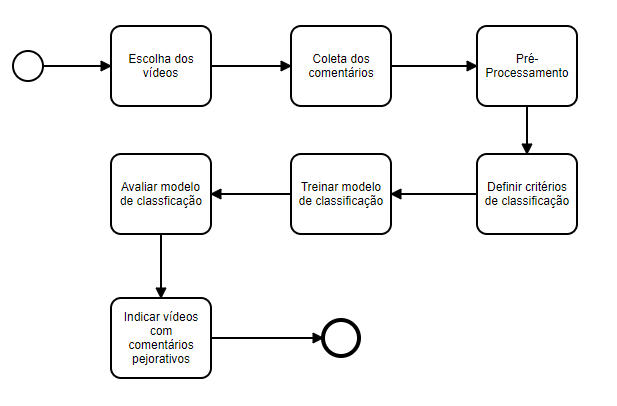
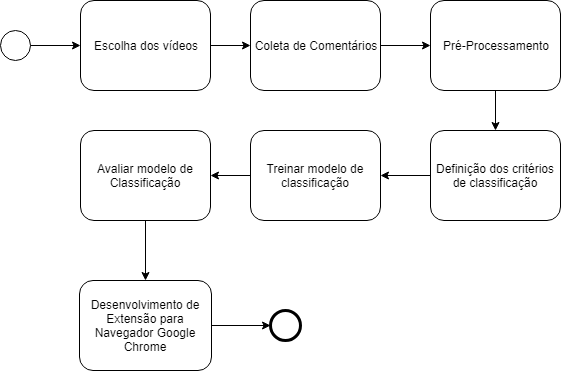
naive bayes finished

diff --git a/fundamentacao_teorica.tex b/fundamentacao_teorica.tex
@@ -89,18 +89,39 @@ Originalmente o classificador SentiStrength apenas trabalha com frases no idioma
 Segundo \citeonline{tan2009DataMining}, uma técnica de classificação é uma maneira de construir modelos de classificação a partir de um \textit{Dataset}. Exemplos de classificadores são: Árvore de decisão; Rede Neurais; SVM (Support Vector Machines); e classificadores Naïve Bayes.
 Cada uma dessas técnicas aplica um algoritmo de aprendizagem para identificar o modelo que melhor descreve um relacionamento entre o conjunto de atributos e as classes dos dados de entrada. Sendo assim o modelo gerado pelo algoritmo de aprendizagem deve ser capaz de, a partir de um conjunto de entradas, classificar corretamente registros que não eram conhecidos até então.
 
-\citeonline{zhang2004optimalitybayes} afirma que Naïve Bayes é um dos algoritmos mais eficientes para \textit{machine learning} e mineração de textos. Esse algoritmo de aprendizagem supervisionado utiliza do Teorema de Bayes, porém considerando haver independência entre as \textit{features} (característica das variáveis de entrada) do conteúdo sendo classificado.
+Naïve Bayes é um dos algoritmos mais eficientes para \textit{machine learning} e mineração de textos. Esse algoritmo de aprendizagem supervisionado utiliza do Teorema de Bayes, porém considerando haver independência entre as \textit{features} (característica das variáveis de entrada) do conteúdo sendo classificado \cite{zhang2004optimalitybayes}.
 
-O Teorema de Bayes com features dependentes pode ser definido da seguinte maneira:
+De acordo com com \citeonline{zhang2004optimalitybayes}, o Teorema de Bayes com features dependentes pode ser definido da seguinte maneira, onde a probabilidade de um evento $\epsilon$ ser da classe $c$ é:
 
-%%%Essa equação esta errada, olhar a referencia do paragrafo acima! 
 \begin{equation}
 \label{eq:bayes_classic}
-P(c|\textbf{D}) = P(c ) \frac{P(\textbf{D} |c)}{P(\textbf{D})}
+ P(c|\epsilon) = P(c ) \frac{P(\epsilon |c)}{P(\epsilon)}
 \end{equation}
 
+$\epsilon$ pertence a classe $C = +$ se somente se:
+\begin{equation}
+\label{eq:bayes_classic}
+ {f_b}(\epsilon) =  \frac{P(C = + | \epsilon)}{P(C = - | \epsilon)} \geq 1
+\end{equation}
 
+onde ${f_b}(\epsilon)$ é um classificador Bayesiano.
 
+Se assumirmos que os atributos são independentes dados os valores de classe, ou seja:
+\begin{equation}
+\label{eq:naive_bayes}
+ {p}(\epsilon|c) =  {p}({x_1, x_2, ..., x_n}|c) = \prod_{i=1}^{n} {p}(x_i|c),
+\end{equation}
+
+O classificador resultante é:
+
+\begin{equation}
+\label{eq:bayes_classic}
+ {f_nb}(\epsilon) =  \frac{P(C = +)}{P(C = -)} \prod_{i=1}^{n} \frac{P({x_i} | C = +)}{P({x_i} | C = -)}
+\end{equation}
+
+A função ${f_nb}(\epsilon)$ é chamada de classificador Naive Bayes (naive Bayesian classifier).
+
+A utização do Naïve Bayes se dara através da ferramenta scikit-learn \citeonline{scikit-learn}, onde o classificador já está previamente implementado.
 %% Old content
 \begin{comment}
 

diff --git a/metodologia.tex b/metodologia.tex
@@ -10,8 +10,8 @@ Uma ilustração da ordem de execução dos passos é descrita na Figura \ref{fi
     \item Definição dos critérios de classificação
     \item Treinamento do modelo de classificação
     \item Avaliação do modelo de classificação
-    \item Indicar vídeos com comentários pejorativos
-    %% Se der tudo certo prox fim de semana, vou colocar aqui o plugin do chrome :D
+    \item Criação de extensão para Google Chrome
+    
 \end{itemize}
 
 \begin{figure}[H] %use h para forçar que a figura fique abaixo do texto
@@ -70,15 +70,15 @@ O modelo gerado é enfim testado utilizando os comentários que não foram utili
 A avaliação do modelo é feita através da ferramenta Scikit Learn, que fornece métodos de score prontos para as medidas de \textit{precision} e \textit{recall}. %preciso mencionar elas lá em cima, quando for falar do scikit. % talvez colocar alguma referencia aqui seja bom tb
 
 %O modelo de classificação gerado agora pode ser testado utilizando todos os comentários que foram coletados afim de chegar as conclusões sobre os tipos de comentários realizados em vídeos infantis e o grau de segurança da seção de comentários de cada vídeo.
-
+\begin{comment}
 \subsection{Indicar vídeos com comentários pejorativos}
 Nessa etapa, iremos avaliar os resultados do processamento dos comentários, agregando agora pelos vídeos dos quais foram coletados, indicando quais os vídeos tem maiores taxas de comentários pejorativos e que não são considerados seguros para crianças e adolescentes.
+\end{comment}
 
 
+\subsection{Criação de extensão para Google Chrome}
 
-\subsection{Criação de um plugin do Google Chrome}
-
-Ao obter um modelo de classificação, foi desenvolvida uma extensão do navegador da web Google Chrome que se utiliza de um \textit{Web Service} que retorna a margem de comentários negativos e positivos para o vídeo sendo assistido naquele momento. 
+Ao obter um modelo de classificação, e em posse da avaliação dos comentários obtidos, foi desenvolvida uma extensão do navegador da web Google Chrome que se utiliza de um \textit{Web Service} que retorna a margem de comentários negativos e positivos para o vídeo sendo assistido naquele momento. 
 
 Caso os comentários do vídeo ainda não tenham sido classificados, o serviço irá iniciar um procedimento automático de classificação, tornando os resultados disponíveis dentro de no máximo algumas horas.
 

diff --git a/resultados_preliminares.tex b/resultados_preliminares.tex
@@ -9,7 +9,7 @@ A tabela \ref{resultados-pre-comentarios} apresenta os dados detalhados da base 
 \begin{table}[H]
 	\Caption{\label{resultados-pre-comentarios} Comentários obtidos}%
 	
-\begin{tabular}{|p{5.5cm}|c|c|c|}
+\begin{tabular}{|p{5.5=[cm}|c|c|c|}
 \hline
 \textbf{Título do Vídeo} & \textbf{Visualizações} & \textbf{Data da Coleta} & \textbf{Comentários obtidos} \\ \hline
 PARABÉNS DA GALINHA PINTADINHA - Clipe Música Oficial - Galinha Pintadinha DVD 4 & 388.515.807 & 20/11/2017 12:00 & 11.669 \\ \hline
